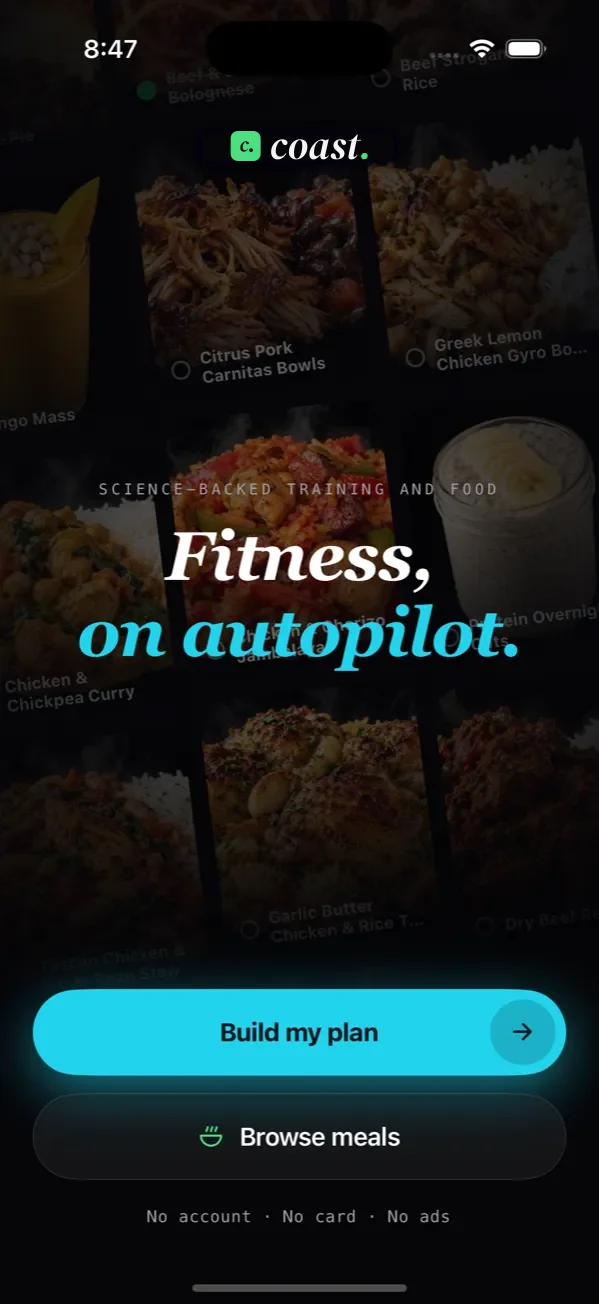
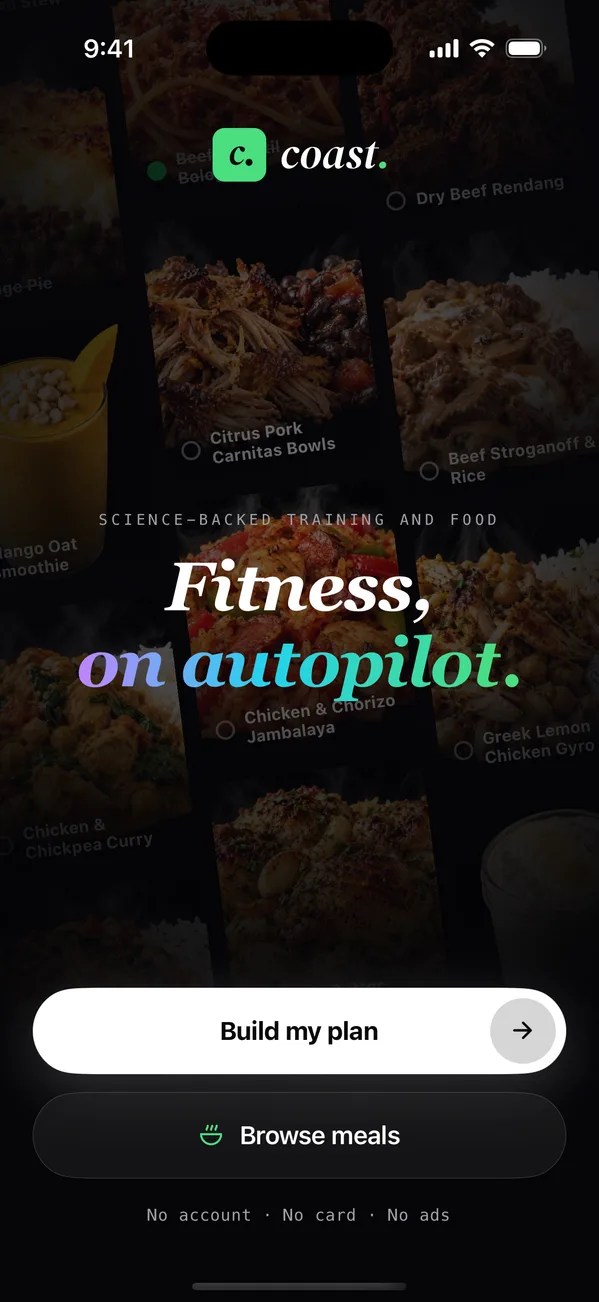
Home hero: real Coast welcome capture (blend + white button); selected label glows in its own colour, others dim back; landing builder accepts the chip colour attribute

diff --git a/protein-first/index.html b/protein-first/index.html
@@ -341,10 +341,12 @@ a.mcard:focus-visible{outline:2px solid var(--green-text);outline-offset:3px}
 .ph[data-slot=l]:hover,.ph[data-slot=r]:hover{opacity:.95;filter:none}
 @keyframes hfloat{50%{translate:0 -10px}}
 .chip{position:absolute;z-index:4;display:flex;gap:10px;align-items:center;padding:10px 14px;border-radius:16px;background:rgba(16,16,21,.86);border:1px solid var(--line);color:#fff;font:inherit;font-size:.84rem;white-space:nowrap;cursor:pointer;
-  -webkit-backdrop-filter:blur(10px);backdrop-filter:blur(10px);box-shadow:0 18px 40px -12px rgba(0,0,0,.7);opacity:.5;transition:opacity .6s,transform .6s,border-color .6s}
+  -webkit-backdrop-filter:blur(10px);backdrop-filter:blur(10px);box-shadow:0 18px 40px -12px rgba(0,0,0,.7);opacity:.32;transform:scale(.95);filter:saturate(.4);transition:opacity .5s,transform .5s,border-color .5s,box-shadow .5s,filter .5s}
 .chip i{width:9px;height:9px;border-radius:50%}
 .chip span{color:var(--text-2)}
-.chip.on{opacity:1;transform:scale(1.06);border-color:rgba(255,255,255,.22)}
+/* the label for the phone in front is unmistakable: full colour, its own colour outline and glow */
+.chip.on{opacity:1;transform:scale(1.1);filter:none;border-color:var(--c,rgba(255,255,255,.3));box-shadow:0 0 0 1px var(--c,transparent),0 0 26px -4px var(--c,transparent),0 18px 40px -12px rgba(0,0,0,.7)}
+.chip.on span{color:#fff}
 .chip.a{left:-3%;top:58%}.chip.b{right:0;top:8%}.chip.c2{right:4%;bottom:6%}
 
 /* phone hero preview (shown at 700px and under) */
@@ -628,12 +630,12 @@ a.mcard:focus-visible{outline:2px solid var(--green-text);outline-offset:3px}
       <p class="htrust"><span class="free">Free</span><span>No ads</span><span>No account</span><span>42 sources</span></p>
     </div>
     <div class="hstage" id="hstage">
-      <button type="button" class="ph" data-i="0" data-slot="c" aria-label="Show the welcome screen"><img src="/images/home/cap-welcome.webp" width="599" height="1304" fetchpriority="high" alt="Coast's welcome screen: Fitness, on autopilot."></button>
+      <button type="button" class="ph" data-i="0" data-slot="c" aria-label="Show the welcome screen"><img src="/images/home/cap-welcome.webp" width="599" height="1302" fetchpriority="high" alt="Coast's welcome screen: Fitness, on autopilot."></button>
       <button type="button" class="ph" data-i="1" data-slot="r" aria-label="Show a day of meals"><img src="/images/home/cap-day.webp" width="600" height="1304" alt="A day of meals in Coast with each meal's time, calories and protein"></button>
       <button type="button" class="ph" data-i="2" data-slot="l" aria-label="Show a workout"><img src="/images/home/cap-workout.webp" width="600" height="1403" alt="A Coast workout in progress with target reps, reps in reserve and a rest timer"></button>
-      <button type="button" class="chip a on" data-i="0"><i style="background:var(--violet-text)"></i><b>A steady cut</b><span>paced to keep muscle</span></button>
-      <button type="button" class="chip b" data-i="1"><i style="background:var(--green-text)"></i><b>High protein meals</b><span>on your macros</span></button>
-      <button type="button" class="chip c2" data-i="2"><i style="background:var(--cyan)"></i><b>Strength training</b><span>to keep muscle</span></button>
+      <button type="button" class="chip a on" data-i="0" style="--c:var(--violet-text)"><i style="background:var(--violet-text)"></i><b>A steady cut</b><span>paced to keep muscle</span></button>
+      <button type="button" class="chip b" data-i="1" style="--c:var(--green-text)"><i style="background:var(--green-text)"></i><b>High protein meals</b><span>on your macros</span></button>
+      <button type="button" class="chip c2" data-i="2" style="--c:var(--cyan)"><i style="background:var(--cyan)"></i><b>Strength training</b><span>to keep muscle</span></button>
     </div>
   </div>
 </section>

diff --git a/fifo/index.html b/fifo/index.html
@@ -341,10 +341,12 @@ a.mcard:focus-visible{outline:2px solid var(--green-text);outline-offset:3px}
 .ph[data-slot=l]:hover,.ph[data-slot=r]:hover{opacity:.95;filter:none}
 @keyframes hfloat{50%{translate:0 -10px}}
 .chip{position:absolute;z-index:4;display:flex;gap:10px;align-items:center;padding:10px 14px;border-radius:16px;background:rgba(16,16,21,.86);border:1px solid var(--line);color:#fff;font:inherit;font-size:.84rem;white-space:nowrap;cursor:pointer;
-  -webkit-backdrop-filter:blur(10px);backdrop-filter:blur(10px);box-shadow:0 18px 40px -12px rgba(0,0,0,.7);opacity:.5;transition:opacity .6s,transform .6s,border-color .6s}
+  -webkit-backdrop-filter:blur(10px);backdrop-filter:blur(10px);box-shadow:0 18px 40px -12px rgba(0,0,0,.7);opacity:.32;transform:scale(.95);filter:saturate(.4);transition:opacity .5s,transform .5s,border-color .5s,box-shadow .5s,filter .5s}
 .chip i{width:9px;height:9px;border-radius:50%}
 .chip span{color:var(--text-2)}
-.chip.on{opacity:1;transform:scale(1.06);border-color:rgba(255,255,255,.22)}
+/* the label for the phone in front is unmistakable: full colour, its own colour outline and glow */
+.chip.on{opacity:1;transform:scale(1.1);filter:none;border-color:var(--c,rgba(255,255,255,.3));box-shadow:0 0 0 1px var(--c,transparent),0 0 26px -4px var(--c,transparent),0 18px 40px -12px rgba(0,0,0,.7)}
+.chip.on span{color:#fff}
 .chip.a{left:-3%;top:58%}.chip.b{right:0;top:8%}.chip.c2{right:4%;bottom:6%}
 
 /* phone hero preview (shown at 700px and under) */
@@ -628,12 +630,12 @@ a.mcard:focus-visible{outline:2px solid var(--green-text);outline-offset:3px}
       <p class="htrust"><span class="free">Free</span><span>No ads</span><span>No account</span><span>42 sources</span></p>
     </div>
     <div class="hstage" id="hstage">
-      <button type="button" class="ph" data-i="0" data-slot="c" aria-label="Show the welcome screen"><img src="/images/home/cap-welcome.webp" width="599" height="1304" fetchpriority="high" alt="Coast's welcome screen: Fitness, on autopilot."></button>
+      <button type="button" class="ph" data-i="0" data-slot="c" aria-label="Show the welcome screen"><img src="/images/home/cap-welcome.webp" width="599" height="1302" fetchpriority="high" alt="Coast's welcome screen: Fitness, on autopilot."></button>
       <button type="button" class="ph" data-i="1" data-slot="r" aria-label="Show a day of meals"><img src="/images/home/cap-day.webp" width="600" height="1304" alt="A day of meals in Coast with each meal's time, calories and protein"></button>
       <button type="button" class="ph" data-i="2" data-slot="l" aria-label="Show a workout"><img src="/images/home/cap-workout.webp" width="600" height="1403" alt="A Coast workout in progress with target reps, reps in reserve and a rest timer"></button>
-      <button type="button" class="chip a on" data-i="0"><i style="background:var(--violet-text)"></i><b>When to cut, when to bulk</b></button>
-      <button type="button" class="chip b" data-i="1"><i style="background:var(--green-text)"></i><b>8 tubs, one cook</b><span>for your home weeks</span></button>
-      <button type="button" class="chip c2" data-i="2"><i style="background:var(--cyan)"></i><b>Gym, home or bodyweight</b><span>1 to 6 days</span></button>
+      <button type="button" class="chip a on" data-i="0" style="--c:var(--violet-text)"><i style="background:var(--violet-text)"></i><b>When to cut, when to bulk</b></button>
+      <button type="button" class="chip b" data-i="1" style="--c:var(--green-text)"><i style="background:var(--green-text)"></i><b>8 tubs, one cook</b><span>for your home weeks</span></button>
+      <button type="button" class="chip c2" data-i="2" style="--c:var(--cyan)"><i style="background:var(--cyan)"></i><b>Gym, home or bodyweight</b><span>1 to 6 days</span></button>
     </div>
   </div>
 </section>

diff --git a/meal-prep/index.html b/meal-prep/index.html
@@ -341,10 +341,12 @@ a.mcard:focus-visible{outline:2px solid var(--green-text);outline-offset:3px}
 .ph[data-slot=l]:hover,.ph[data-slot=r]:hover{opacity:.95;filter:none}
 @keyframes hfloat{50%{translate:0 -10px}}
 .chip{position:absolute;z-index:4;display:flex;gap:10px;align-items:center;padding:10px 14px;border-radius:16px;background:rgba(16,16,21,.86);border:1px solid var(--line);color:#fff;font:inherit;font-size:.84rem;white-space:nowrap;cursor:pointer;
-  -webkit-backdrop-filter:blur(10px);backdrop-filter:blur(10px);box-shadow:0 18px 40px -12px rgba(0,0,0,.7);opacity:.5;transition:opacity .6s,transform .6s,border-color .6s}
+  -webkit-backdrop-filter:blur(10px);backdrop-filter:blur(10px);box-shadow:0 18px 40px -12px rgba(0,0,0,.7);opacity:.32;transform:scale(.95);filter:saturate(.4);transition:opacity .5s,transform .5s,border-color .5s,box-shadow .5s,filter .5s}
 .chip i{width:9px;height:9px;border-radius:50%}
 .chip span{color:var(--text-2)}
-.chip.on{opacity:1;transform:scale(1.06);border-color:rgba(255,255,255,.22)}
+/* the label for the phone in front is unmistakable: full colour, its own colour outline and glow */
+.chip.on{opacity:1;transform:scale(1.1);filter:none;border-color:var(--c,rgba(255,255,255,.3));box-shadow:0 0 0 1px var(--c,transparent),0 0 26px -4px var(--c,transparent),0 18px 40px -12px rgba(0,0,0,.7)}
+.chip.on span{color:#fff}
 .chip.a{left:-3%;top:58%}.chip.b{right:0;top:8%}.chip.c2{right:4%;bottom:6%}
 
 /* phone hero preview (shown at 700px and under) */
@@ -628,12 +630,12 @@ a.mcard:focus-visible{outline:2px solid var(--green-text);outline-offset:3px}
       <p class="htrust"><span class="free">Free</span><span>No ads</span><span>No account</span><span>42 sources</span></p>
     </div>
     <div class="hstage" id="hstage">
-      <button type="button" class="ph" data-i="0" data-slot="c" aria-label="Show the welcome screen"><img src="/images/home/cap-welcome.webp" width="599" height="1304" fetchpriority="high" alt="Coast's welcome screen: Fitness, on autopilot."></button>
+      <button type="button" class="ph" data-i="0" data-slot="c" aria-label="Show the welcome screen"><img src="/images/home/cap-welcome.webp" width="599" height="1302" fetchpriority="high" alt="Coast's welcome screen: Fitness, on autopilot."></button>
       <button type="button" class="ph" data-i="1" data-slot="r" aria-label="Show a day of meals"><img src="/images/home/cap-day.webp" width="600" height="1304" alt="A day of meals in Coast with each meal's time, calories and protein"></button>
       <button type="button" class="ph" data-i="2" data-slot="l" aria-label="Show a workout"><img src="/images/home/cap-workout.webp" width="600" height="1403" alt="A Coast workout in progress with target reps, reps in reserve and a rest timer"></button>
-      <button type="button" class="chip a on" data-i="0"><i style="background:var(--violet-text)"></i><b>When to cut, when to bulk</b></button>
-      <button type="button" class="chip b" data-i="1"><i style="background:var(--green-text)"></i><b>8 tubs, one cook</b><span>on your macros</span></button>
-      <button type="button" class="chip c2" data-i="2"><i style="background:var(--cyan)"></i><b>1-year program</b><span>included</span></button>
+      <button type="button" class="chip a on" data-i="0" style="--c:var(--violet-text)"><i style="background:var(--violet-text)"></i><b>When to cut, when to bulk</b></button>
+      <button type="button" class="chip b" data-i="1" style="--c:var(--green-text)"><i style="background:var(--green-text)"></i><b>8 tubs, one cook</b><span>on your macros</span></button>
+      <button type="button" class="chip c2" data-i="2" style="--c:var(--cyan)"><i style="background:var(--cyan)"></i><b>1-year program</b><span>included</span></button>
     </div>
   </div>
 </section>

diff --git a/index.html b/index.html
@@ -298,10 +298,12 @@ a.mcard:focus-visible{outline:2px solid var(--green-text);outline-offset:3px}
 .ph[data-slot=l]:hover,.ph[data-slot=r]:hover{opacity:.95;filter:none}
 @keyframes hfloat{50%{translate:0 -10px}}
 .chip{position:absolute;z-index:4;display:flex;gap:10px;align-items:center;padding:10px 14px;border-radius:16px;background:rgba(16,16,21,.86);border:1px solid var(--line);color:#fff;font:inherit;font-size:.84rem;white-space:nowrap;cursor:pointer;
-  -webkit-backdrop-filter:blur(10px);backdrop-filter:blur(10px);box-shadow:0 18px 40px -12px rgba(0,0,0,.7);opacity:.5;transition:opacity .6s,transform .6s,border-color .6s}
+  -webkit-backdrop-filter:blur(10px);backdrop-filter:blur(10px);box-shadow:0 18px 40px -12px rgba(0,0,0,.7);opacity:.32;transform:scale(.95);filter:saturate(.4);transition:opacity .5s,transform .5s,border-color .5s,box-shadow .5s,filter .5s}
 .chip i{width:9px;height:9px;border-radius:50%}
 .chip span{color:var(--text-2)}
-.chip.on{opacity:1;transform:scale(1.06);border-color:rgba(255,255,255,.22)}
+/* the label for the phone in front is unmistakable: full colour, its own colour outline and glow */
+.chip.on{opacity:1;transform:scale(1.1);filter:none;border-color:var(--c,rgba(255,255,255,.3));box-shadow:0 0 0 1px var(--c,transparent),0 0 26px -4px var(--c,transparent),0 18px 40px -12px rgba(0,0,0,.7)}
+.chip.on span{color:#fff}
 .chip.a{left:-3%;top:58%}.chip.b{right:0;top:8%}.chip.c2{right:4%;bottom:6%}
 
 /* phone hero preview (shown at 700px and under) */
@@ -584,12 +586,12 @@ a.mcard:focus-visible{outline:2px solid var(--green-text);outline-offset:3px}
       <p class="htrust"><span class="free">Free</span><span>No ads</span><span>No account</span><span>42 sources</span></p>
     </div>
     <div class="hstage" id="hstage">
-      <button type="button" class="ph" data-i="0" data-slot="c" aria-label="Show the welcome screen"><img src="images/home/cap-welcome.webp" width="599" height="1304" fetchpriority="high" alt="Coast's welcome screen: Fitness, on autopilot."></button>
+      <button type="button" class="ph" data-i="0" data-slot="c" aria-label="Show the welcome screen"><img src="images/home/cap-welcome.webp" width="599" height="1302" fetchpriority="high" alt="Coast's welcome screen: Fitness, on autopilot."></button>
       <button type="button" class="ph" data-i="1" data-slot="r" aria-label="Show a day of meals"><img src="images/home/cap-day.webp" width="600" height="1304" alt="A day of meals in Coast with each meal's time, calories and protein"></button>
       <button type="button" class="ph" data-i="2" data-slot="l" aria-label="Show a workout"><img src="images/home/cap-workout.webp" width="600" height="1403" alt="A Coast workout in progress with target reps, reps in reserve and a rest timer"></button>
-      <button type="button" class="chip a on" data-i="0"><i style="background:var(--violet-text)"></i><b>When to cut, when to bulk</b></button>
-      <button type="button" class="chip b" data-i="1"><i style="background:var(--green-text)"></i><b>7 days of meals</b><span>one cook</span></button>
-      <button type="button" class="chip c2" data-i="2"><i style="background:var(--cyan)"></i><b>1-year program</b><span>built instantly</span></button>
+      <button type="button" class="chip a on" data-i="0" style="--c:var(--violet-text)"><i style="background:var(--violet-text)"></i><b>When to cut, when to bulk</b></button>
+      <button type="button" class="chip b" data-i="1" style="--c:var(--green-text)"><i style="background:var(--green-text)"></i><b>7 days of meals</b><span>one cook</span></button>
+      <button type="button" class="chip c2" data-i="2" style="--c:var(--cyan)"><i style="background:var(--cyan)"></i><b>1-year program</b><span>built instantly</span></button>
     </div>
   </div>
 </section>
